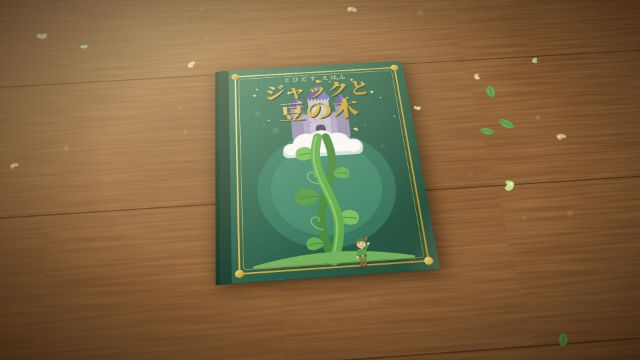
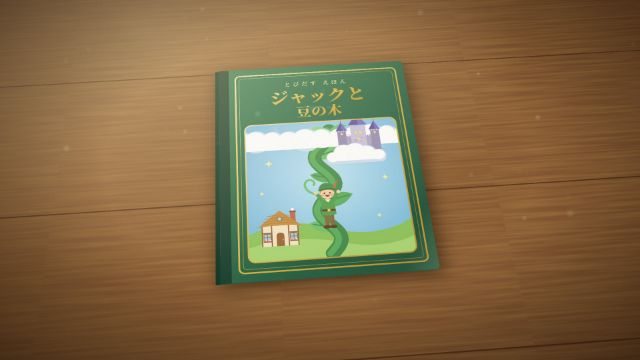
Restyle alice, deepen chalk colours, and list style, background and music per sample
Switch alice to the flat style with the built-in fife-and-drum set.
Make chalk lines keep more of their original colour and lighten the
board green, then regenerate the previews. Show art style, background
and music for every sample in the README tables.

diff --git a/skills/tobidas-lite/themes/default/theme.js b/skills/tobidas-lite/themes/default/theme.js
@@ -218,7 +218,7 @@
       // モノクロ: 白黒にして明暗を強め、フィルムの粒を乗せる。同じ灰色どうしが溶けないよう、明るい細い縁を残す
       mono: { label: 'モノクロ', filter: edge(2.4, '#efefef') + `<feColorMatrix in="SourceGraphic" type="matrix" values=".42 .82 .16 0 -.16  .42 .82 .16 0 -.16  .42 .82 .16 0 -.16  0 0 0 1 0" result="c"/>` + grain(.7, .5, 1.3) + tex('c') + `<feMerge><feMergeNode in="edge"/><feMergeNode in="tex"/></feMerge>`, pageFilter: 'grayscale(1) contrast(1.3) brightness(.92)', grain: .95, shadow: 1.15 },
       // 黒板: 板に描いたチョークの線画にする。形の中は板の色で塗りつぶし(うしろの物は隠れる)、輪郭と形の中の線だけを淡い色のかすれた線で描き、うっすら粉の色を乗せる
-      chalk: { label: '黒板', filter: `<feTurbulence type="fractalNoise" baseFrequency=".05" numOctaves="2" seed="3" result="w"/><feDisplacementMap in="SourceGraphic" in2="w" scale="5" xChannelSelector="R" yChannelSelector="G" result="s"/><feMorphology in="s" operator="dilate" radius="2.6" result="big"/><feMorphology in="s" operator="erode" radius="1.3" result="sml"/><feBlend in="big" in2="sml" mode="difference" result="df"/><feColorMatrix in="df" type="matrix" values="0 0 0 0 1  0 0 0 0 1  0 0 0 0 1  5 5 5 0 -.35" result="mk"/><feColorMatrix in="big" type="matrix" values=".62 .1 .02 0 .34  .05 .66 .02 0 .34  .05 .1 .6 0 .34  0 0 0 1 0" result="pc"/><feComposite in="pc" in2="mk" operator="in" result="ln0"/><feTurbulence type="fractalNoise" baseFrequency=".9" numOctaves="2" seed="11" result="n"/><feColorMatrix in="n" type="matrix" values="0 0 0 0 1  0 0 0 0 1  0 0 0 0 1  2.6 2.6 0 0 -1.25" result="sp"/><feComposite in="ln0" in2="sp" operator="in" result="ln"/><feColorMatrix in="ln0" type="matrix" values="1 0 0 0 0  0 1 0 0 0  0 0 1 0 0  0 0 0 .6 0" result="lnb"/><feFlood flood-color="#27402f"/><feComposite in2="s" operator="in" result="bd"/><feColorMatrix in="s" type="matrix" values=".62 .1 .02 0 .34  .05 .66 .02 0 .34  .05 .1 .6 0 .34  0 0 0 .5 0" result="d0"/><feComposite in="d0" in2="sp" operator="in" result="du0"/><feColorMatrix in="du0" type="matrix" values="1 0 0 0 0  0 1 0 0 0  0 0 1 0 0  0 0 0 .7 0" result="du"/><feMerge><feMergeNode in="bd"/><feMergeNode in="du"/><feMergeNode in="lnb"/><feMergeNode in="ln"/></feMerge>`, pageFilter: 'grayscale(1) contrast(1.6) brightness(.24) sepia(1) hue-rotate(72deg) saturate(1.5)', grain: .9, shadow: .2 },
+      chalk: { label: '黒板', filter: `<feTurbulence type="fractalNoise" baseFrequency=".05" numOctaves="2" seed="3" result="w"/><feDisplacementMap in="SourceGraphic" in2="w" scale="5" xChannelSelector="R" yChannelSelector="G" result="s"/><feMorphology in="s" operator="dilate" radius="2.6" result="big"/><feMorphology in="s" operator="erode" radius="1.3" result="sml"/><feBlend in="big" in2="sml" mode="difference" result="df"/><feColorMatrix in="df" type="matrix" values="0 0 0 0 1  0 0 0 0 1  0 0 0 0 1  5 5 5 0 -.35" result="mk"/><feColorMatrix in="big" type="matrix" values="1.05 -.15 -.05 0 .2  -.1 1 -.05 0 .2  -.1 -.15 1.05 0 .2  0 0 0 1 0" result="pc"/><feComposite in="pc" in2="mk" operator="in" result="ln0"/><feTurbulence type="fractalNoise" baseFrequency=".9" numOctaves="2" seed="11" result="n"/><feColorMatrix in="n" type="matrix" values="0 0 0 0 1  0 0 0 0 1  0 0 0 0 1  2.6 2.6 0 0 -1.25" result="sp"/><feComposite in="ln0" in2="sp" operator="in" result="ln"/><feColorMatrix in="ln0" type="matrix" values="1 0 0 0 0  0 1 0 0 0  0 0 1 0 0  0 0 0 .6 0" result="lnb"/><feFlood flood-color="#34583f"/><feComposite in2="s" operator="in" result="bd"/><feColorMatrix in="s" type="matrix" values="1.05 -.15 -.05 0 .2  -.1 1 -.05 0 .2  -.1 -.15 1.05 0 .2  0 0 0 .5 0" result="d0"/><feComposite in="d0" in2="sp" operator="in" result="du0"/><feColorMatrix in="du0" type="matrix" values="1 0 0 0 0  0 1 0 0 0  0 0 1 0 0  0 0 0 .7 0" result="du"/><feMerge><feMergeNode in="bd"/><feMergeNode in="du"/><feMergeNode in="lnb"/><feMergeNode in="ln"/></feMerge>`, pageFilter: 'grayscale(1) contrast(1.6) brightness(.33) sepia(1) hue-rotate(72deg) saturate(1.5)', grain: .9, shadow: .2 },
       // 目や口のような小さく暗い細部が丸めで消えないよう、先に暗い色を 2px 太らせてから点を拾う(直径 5px 以上の暗い細部は必ず残る)
       // ドット絵: 9px のます目ごとに中心の1点だけを残し、それをます目いっぱいに太らせる。色は段階を減らす
       pixel: { label: 'ドット絵', filter: `<feFlood x="4" y="4" width="1" height="1" flood-color="#000" result="pt"/><feOffset in="pt" dx="0" dy="0" x="0" y="0" width="9" height="9" result="cell"/><feTile in="cell" result="grid"/><feMorphology in="SourceGraphic" operator="erode" radius="2" result="er"/><feMerge result="src"><feMergeNode in="SourceGraphic"/><feMergeNode in="er"/></feMerge><feComposite in="src" in2="grid" operator="in" result="smp"/><feMorphology in="smp" operator="dilate" radius="4" result="px"/><feComponentTransfer in="px"><feFuncR type="discrete" tableValues="0 .2 .4 .6 .8 1"/><feFuncG type="discrete" tableValues="0 .2 .4 .6 .8 1"/><feFuncB type="discrete" tableValues="0 .2 .4 .6 .8 1"/><feFuncA type="discrete" tableValues="0 1"/></feComponentTransfer>`, pageFilter: 'url(#paper) saturate(1.2)', grain: 0, shadow: .9 },

diff --git a/skills/tobidas-lite/themes/default/examples/alice/book/book.js b/skills/tobidas-lite/themes/default/examples/alice/book/book.js
@@ -12,11 +12,6 @@ const greens=(seed=1)=>[
 ];
 const hills=()=>pc(0,130,1360,240,A.hills(1360,240,'#8daeb0','#94b89b',12,.9),{fold:12,sh:false});
 const camera={start:{d:430,tilt:58,cz:180,yaw:-3},end:{d:390,tilt:58,cz:180,yaw:3}};
-const tune=(chords,notes)=>({beats:3,chords,mel:notes.map(ns=>ns.map((n,i)=>[i,n]))});
-const music={label:'アリスの夢のワルツ',tempo:1,inst:{mel:'box',comp:'arp',bass:'soft',fx:'harp'},
- main:tune(['C','Am','F','G','Em','F','G7','C'],[[76,79,84],[81,84,83],[81,79,77],[79,83],[79,76,74],[77,81,84],[83,81,74],[72]]),
- sub:tune(['C','Em','F','C','Dm','G','G7','C'],[[79,84,88],[83,79,76],[81,84,89],[88,84],[77,81,86],[83,86,79],[83,81,74],[72]]),
- minor:tune(['Am','E','Am','Dm','F','E','E','Am'],[[81,84,83],[80,83,88],[84,81,76],[81,77],[81,84,89],[83,80,76],[80,83,80],[81]])};
 const spreads=[];
 spreads.push({hold:8,music:'airy',scene:A.scene('river'),ground:A.gMeadow({seed:17,pond:[950,370]}),cam:camera,
  caption:['「たいへん、ちこくしちゃう！」','しろうさぎを おって、アリスは あなの なかへ。'],sfx:[[1,'tick'],[3,'steps',{n:3,gap:.4}],[6.5,'fall',{gap:.08}]],
@@ -85,4 +80,4 @@ spreads.push({hold:11,music:[[0,'chase'],[5.4,'none'],[6.2,'gentle']],
  put('item.book',-170,730,{k:.5,art:{c:'#866a82'},dyn:wake})
  ]});
 
-Tobidas.book({title:'不思議な国のアリス — とびだすえほん',lang:'ja',theme:{board:'#244c57',spine:'#183542',style:'vintage',desk:{base:'forest',scene:A.scene('river')}},sound:{set:music},cover:A.cover(),end:{title:'おしまい',sub:'ふしぎな ゆめは、また いつか。'},spreads});
+Tobidas.book({title:'不思議な国のアリス — とびだすえほん',lang:'ja',theme:{board:'#244c57',spine:'#183542',style:'flat',desk:{base:'forest',scene:A.scene('river')}},sound:{set:'march'},cover:A.cover(),end:{title:'おしまい',sub:'ふしぎな ゆめは、また いつか。'},spreads});

diff --git a/README.en.md b/README.en.md
@@ -34,13 +34,13 @@ The goal of tobidas-lite is that **you give an agent the URL of this repository 
 
 Five finished books are included, all made with this skill. The model used for each book is listed below. Clone the repository and open the `index.html` of each in a browser.
 
-| Book | Language | Spreads | Look | Made by | Notes |
+| Book | Language | Spreads | Look (art style / background / music) | Made by | Notes |
 |---|---|---|---|---|---|
-| [`examples/jack`](skills/tobidas-lite/themes/default/examples/jack/) — Jack and the Beanstalk | Japanese | 8 | Paper-cut style, wooden desk | Claude Fable5.2 medium | Minor adjustments over a few turns |
-| [`examples/urashima`](skills/tobidas-lite/themes/default/examples/urashima/) — Urashima Taro | English | 8 | Crayon style, moving seaside, Japanese-style music | Claude Opus 5.5 medium | Minor adjustments over a few turns |
-| [`examples/alice`](skills/tobidas-lite/themes/default/examples/alice/) — Alice's Adventures in Wonderland | Japanese | 6 | Retro style, a different background for each spread | GPT-6 Astra medium | Created in one turn |
-| [`examples/le-petit-prince`](skills/tobidas-lite/themes/default/examples/le-petit-prince/) — Le Petit Prince | French | 6 | Retro style, a different background for each spread | GPT6.1-Sol medium | Created in one turn |
-| [`examples/momotaro`](skills/tobidas-lite/themes/default/examples/momotaro/) — Momotaro | English | 8 | Pop art style, moving meadow, Japanese-style music | Qwen 3.8 Flash Next IQ3_S (Strata) | Minor adjustments over a few turns. Several internal warnings; reference implementation |
+| [`examples/jack`](skills/tobidas-lite/themes/default/examples/jack/) — Jack and the Beanstalk | Japanese | 8 | Paper-cut / wooden desk / music box | Claude Fable5.2 medium | Minor adjustments over a few turns |
+| [`examples/urashima`](skills/tobidas-lite/themes/default/examples/urashima/) — Urashima Taro | English | 8 | Crayon / moving seaside / Japanese flute | Claude Opus 5.5 medium | Minor adjustments over a few turns |
+| [`examples/alice`](skills/tobidas-lite/themes/default/examples/alice/) — Alice's Adventures in Wonderland | Japanese | 6 | Flat / original backgrounds / fife and drum | GPT-6 Astra medium | Created in one turn |
+| [`examples/le-petit-prince`](skills/tobidas-lite/themes/default/examples/le-petit-prince/) — Le Petit Prince | French | 6 | Retro / original backgrounds / original music | GPT6.1-Sol medium | Created in one turn |
+| [`examples/momotaro`](skills/tobidas-lite/themes/default/examples/momotaro/) — Momotaro | English | 8 | Pop art / moving meadow / Japanese flute | Qwen 3.8 Flash Next IQ3_S (Strata) | Minor adjustments over a few turns. Several internal warnings; reference implementation |
 
 The examples are under `skills/tobidas-lite/themes/default/`.
 

diff --git a/skills/tobidas-lite/themes/default/presets.md b/skills/tobidas-lite/themes/default/presets.md
@@ -19,7 +19,7 @@
 | `riso` | 青とコーラルの2色刷り。版が少しずれて重なり、紙の粒が強い | おしゃれな話、現代の話、レトロな印刷物ふう | 緑や紫は青の濃淡になり、赤・黄・肌色だけがコーラルになる。色で見分けていた物は明暗でも差を付ける |
 | `popart` | 太い黒の縁、原色に寄せた色、中に網点。アメコミ | 元気な話、ヒーローもの、ギャグ | 色が強くなるので、背景は淡い色で描いて主役と差を付ける |
 | `mono` | 白黒で明暗が強く、フィルムの粒が乗る。古い映画 | 昔の話、探偵もの、しずかな話、思い出 | 色の違いが消えるので、隣り合う物は明るさを変える |
-| `chalk` | 黒板に描いたチョークの線画。パーツは板の色で塗りつぶされ、輪郭と形の中の線が淡い色のかすれた線になる。地面も深緑の黒板になる | 学校の話、授業ふうの説明、手書きの味を出したい話 | 塗りの色はうっすらとしか残らないので、形と線で見分けられるように描く。色の差が小さい所は線が出ない |
+| `chalk` | 黒板に描いたチョークの線画。パーツは板の色で塗りつぶされ、輪郭と形の中の線が、元の色を残した濃いめの色のかすれた線になる。地面も深緑の黒板になる | 学校の話、授業ふうの説明、手書きの味を出したい話 | 塗りの色はうっすらとしか残らないので、形と線で見分けられるように描く。色の差が小さい所は線が出ない |
 | `pixel` | 粗います目のドット絵。地面もドットになる | ゲームふうの話、冒険、勇者もの | 文字はつぶれる。看板の文字は使わない。目や口のような小さく暗い細部は残るようにしてあるが、明るい細部(暗い地の星や白い模様)は消えやすい。人物は大きめに置く。ほかの画風より動きが重い |
 
 書き下ろし(`theme.style` をオブジェクトで書く):

diff --git a/skills/tobidas-lite/themes/default/guide.md b/skills/tobidas-lite/themes/default/guide.md
@@ -30,7 +30,7 @@
 
 - `examples/jack/`: 完成見本「ジャックと豆の木」(8見開き、日本語、切り紙・板張りの机)。`book/art.js` と `book/book.js` が書き方の実例。伸びる・倒れる・受け渡す・ページの下から登ってくる、の実例
 - `examples/urashima/`: 完成見本「Urashima Taro」(8見開き、英語、クレヨン・動く背景の海辺・和風の曲)。泳ぐ・乗る・せり上がる・受け渡す・煙で変身、の実例
-- `examples/alice/`: 完成見本「不思議な国のアリス」(6見開き、日本語、レトロ)。見開きごとに変わる背景と書き下ろしの曲集、裁判から目覚めへの切り替えの実例
+- `examples/alice/`: 完成見本「不思議な国のアリス」(6見開き、日本語、フラット・描き下ろし背景・鼓笛隊)。見開きごとに変わる背景、裁判から目覚めへの切り替えの実例
 - `examples/le-petit-prince/`: 完成見本「Le Petit Prince」(6見開き、フランス語、レトロ)。見開きごとに変わる背景と書き下ろしの曲集、小さな星を浮かべる実例
 - `examples/momotaro/`: 「Momotaro」(8見開き、英語、ポップアート・動く背景の野原・和風の曲)。ローカルモデルに作らせた参考実装で、**書き方の手本にしない。** `delay` に 0.4 を超える値を渡している、色を `art` の外に書いている、などの誤りが残っている。作品を作るときは読まず、ほかの見本を参照する
 - `starter/book/`: 新しい作品の書き出し(`new-book.mjs` が作品フォルダにコピーする、2見開きの動くひな形)
